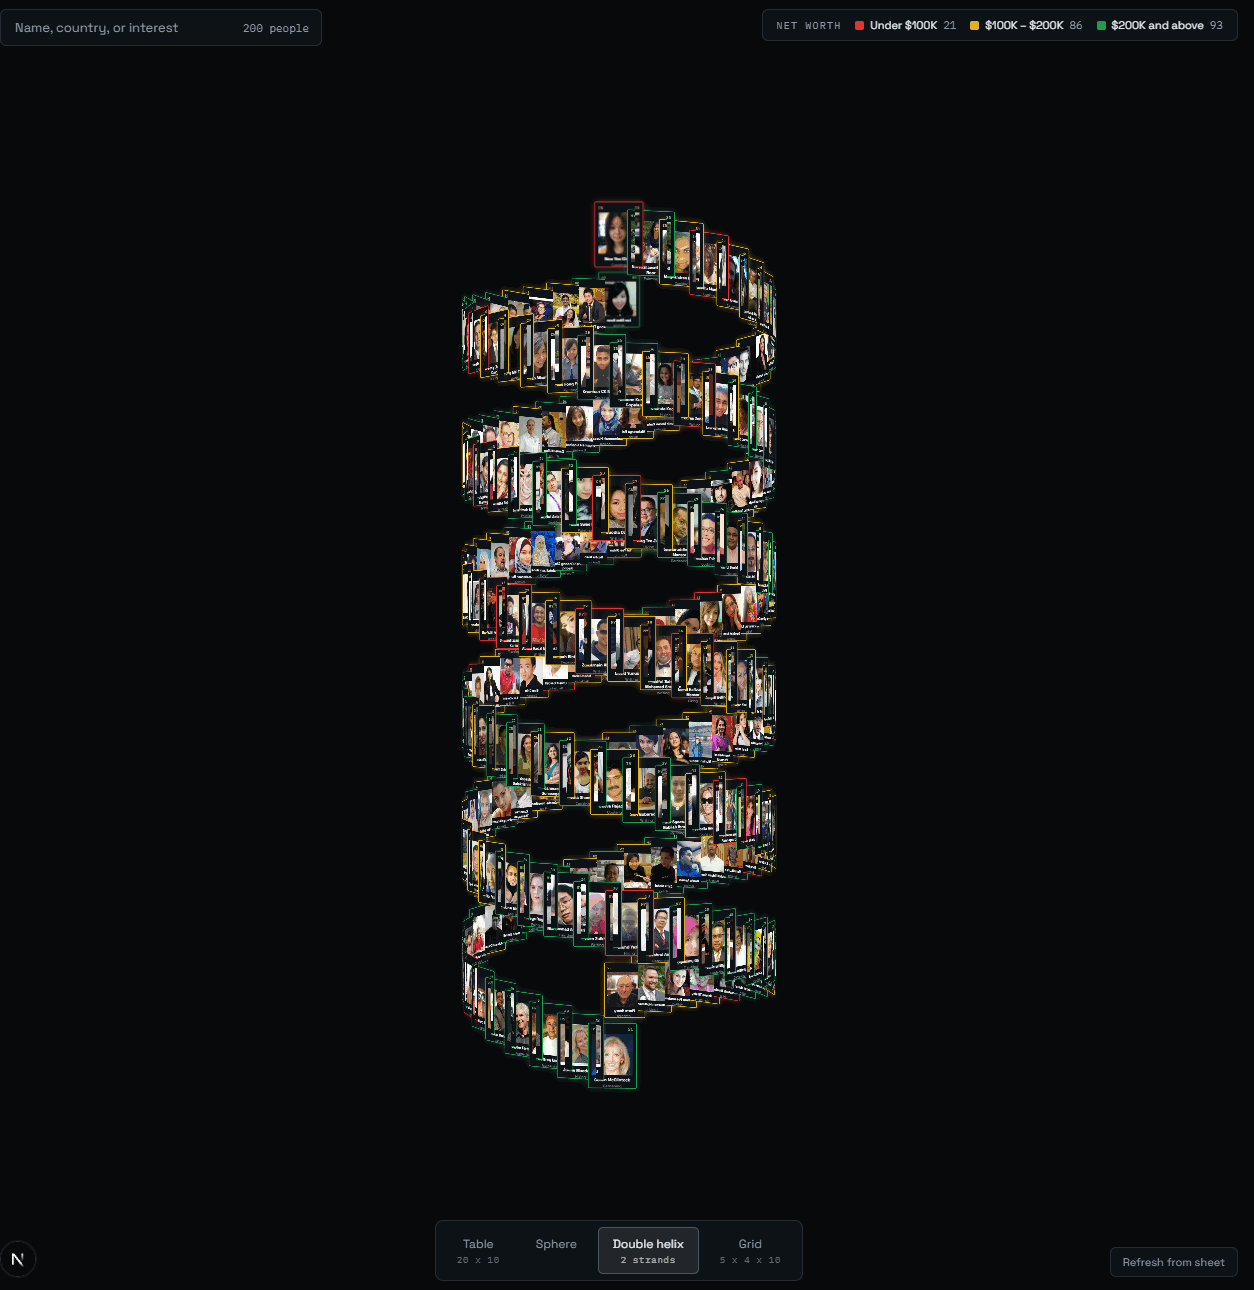
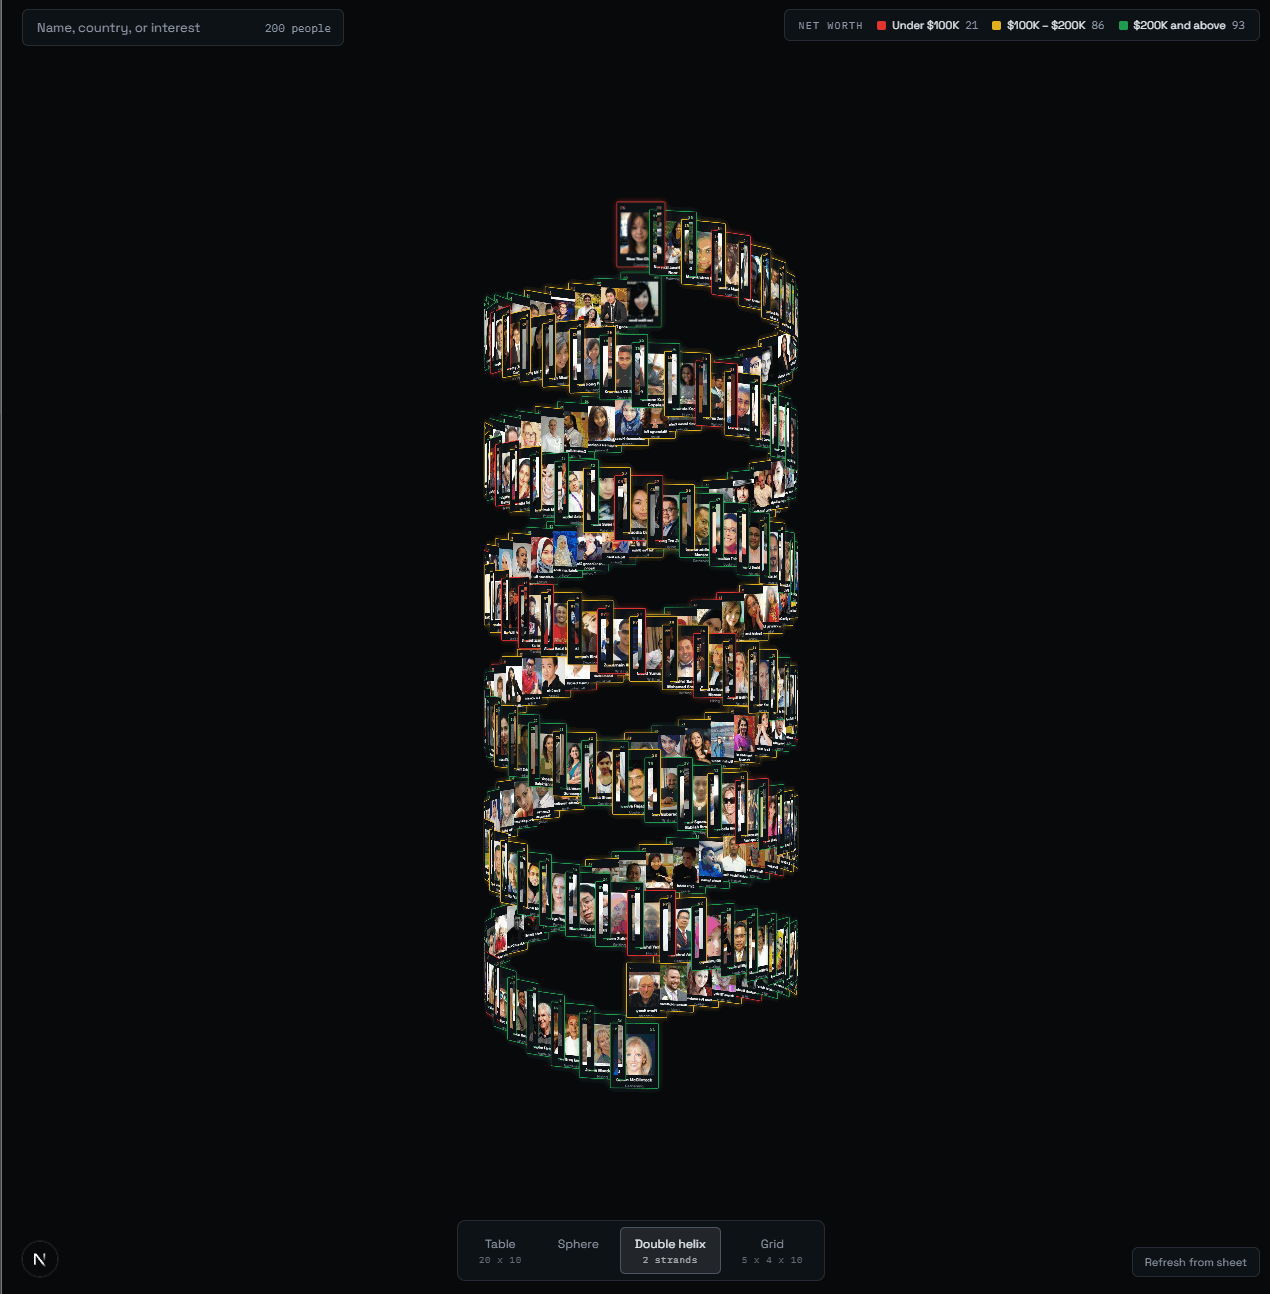
Update helix screenshot and document the strand interleaving
Explains why tiles alternate between strands by parity rather than
splitting the dataset in half, and points at the tests that assert the
double-helix geometry the screenshot cannot show.

diff --git a/README.md b/README.md
@@ -22,6 +22,16 @@ Tile colour encodes net worth throughout; the legend counts update with the
 data. The layout buttons carry their own dimensions, so the graded numbers are
 visible in the UI as well as in the tests.
 
+### Double helix — two interleaved strands
+
+Two strands, 180° out of phase, rising in lockstep. Tiles alternate between
+strands by parity rather than splitting the dataset in half, so the country
+grouping in the source data distributes evenly across both ribbons instead of
+landing entirely on one. The strands are hard to separate visually from a
+static angle — they are verified by test instead: `tests/layouts.test.ts`
+asserts that paired tiles sit at equal height, diametrically opposite, and on
+the cylinder surface.
+
 ### The sign-in gate
 
 <img src="./screenshots/signin.png" alt="Sign-in panel reading '200 people, four arrangements' with a Sign in with Google button" width="420">
